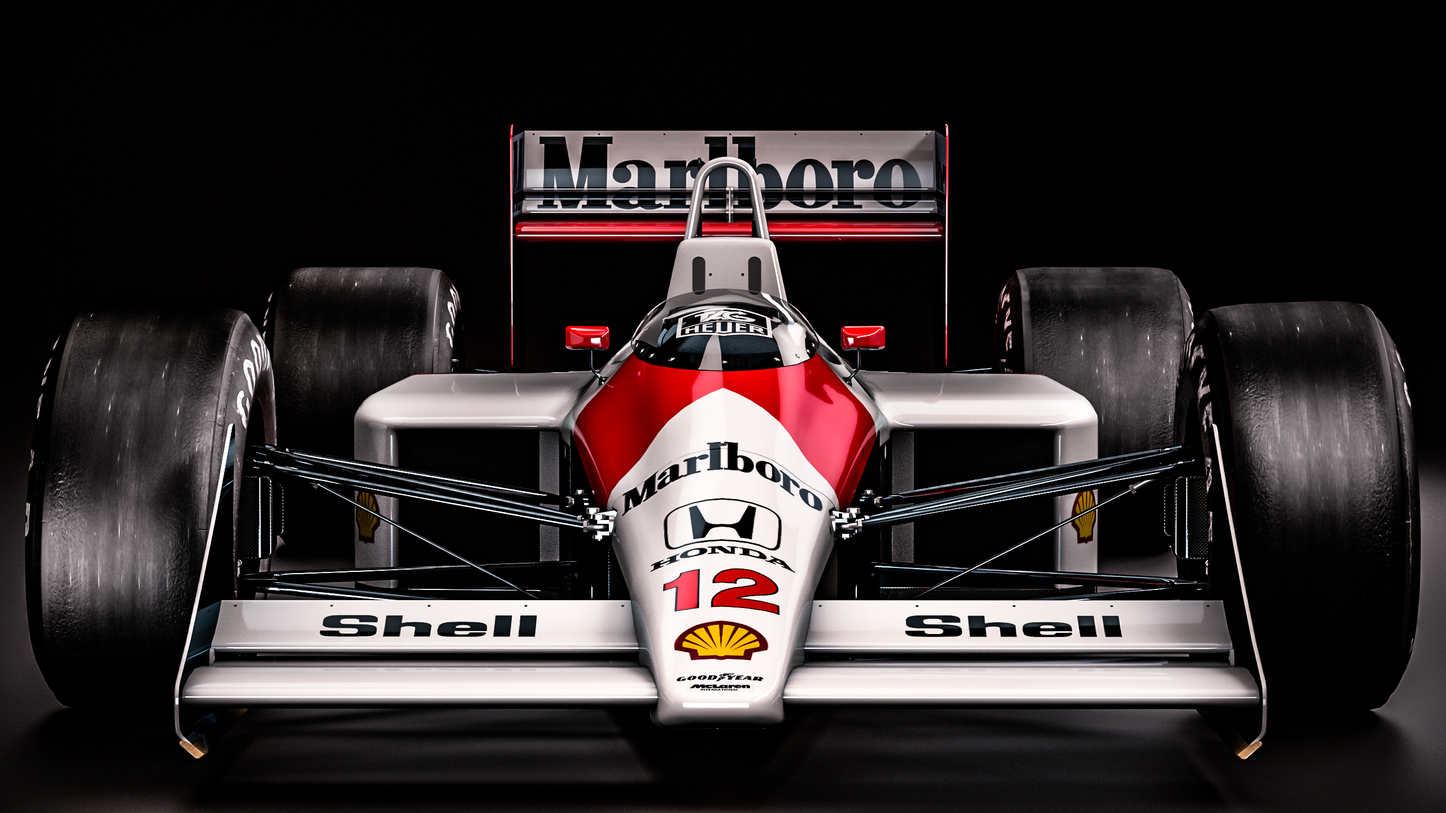
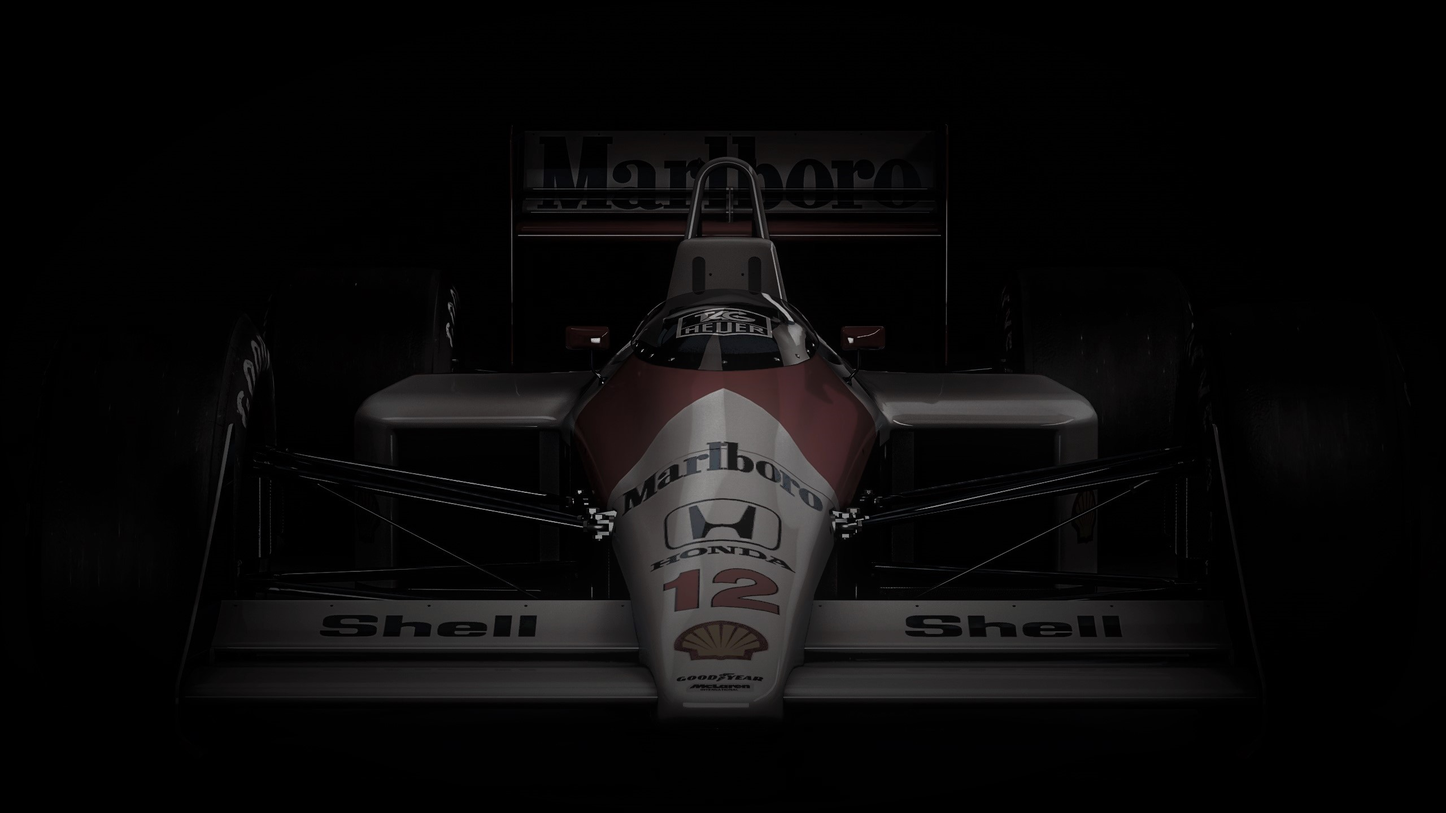
Alterando imagens do site

diff --git a/Site/site/public/assets/style/style.css b/Site/site/public/assets/style/style.css
@@ -57,6 +57,7 @@ body {
     background-image: url(../img/CarroMcLaren.png);
     background-repeat: no-repeat;
     background-size: 100%;
+    opacity: 0.9;
     background-position: 100%;
   }
 
@@ -70,15 +71,13 @@ body {
   }
 
   .slogan .titulo {
-    width: 55%;
+    width: 70%;
     height: 60px;
     display: flex;
     justify-content: center;
     align-items: center;
-    border-radius: 15px;
-    background-color: #000000;
-    color:#FFFFFF; 
-    font-size: 35px;
+    color: #FFFFFF;
+    font-size: 45px;
     font-weight: 900;
   }
   /* FIM BANNER HOME*/
@@ -199,9 +198,10 @@ body {
   }
 
   .cadastro .input {
-    border-radius: 10px;
+    border-radius: 30px;
     text-align: center;
-    width: 60%;
+    width: 80%;
+    height: 60px;
     font-size: 18px;
   }
   
@@ -226,7 +226,7 @@ body {
   .login {
     margin-top: 100px;
     width: 35%;
-    height: 350px;
+    height: 450px;
     background-color: #363636;
     border-radius: 40px;
     display: flex;
@@ -260,10 +260,12 @@ body {
   }
 
   .login .input {
-    border-radius: 10px;
+    border-radius: 30px;
     text-align: center;
-    width: 60%;
+    width: 80%;
+    height: 60px;
     font-size: 18px;
+
   }
   
   .login .link {

diff --git a/Site/site/public/login.html b/Site/site/public/login.html
@@ -19,7 +19,7 @@
           </ul>
           <ul class="navbar">
               <li>
-                <a href="home.html">Home</a>
+                <a href="index.html">Home</a>
               </li>
               <li class="local">Login
                 <a href="login.html"></a>

diff --git a/Site/site/public/index.html b/Site/site/public/index.html
@@ -19,7 +19,7 @@
           </ul>
           <ul class="navbar">
               <li class="local">Home
-                <a href="home.html"></a>
+                <a href="index.html"></a>
               </li>
               <li>
                 <a href="login.html">Login</a>

diff --git a/Site/site/public/cadastro.html b/Site/site/public/cadastro.html
@@ -19,7 +19,7 @@
           </ul>
           <ul class="navbar">
               <li>
-                <a href="home.html">Home</a>
+                <a href="index.html">Home</a>
               </li>
               <li>
                 <a href="login.html">Login</a>
